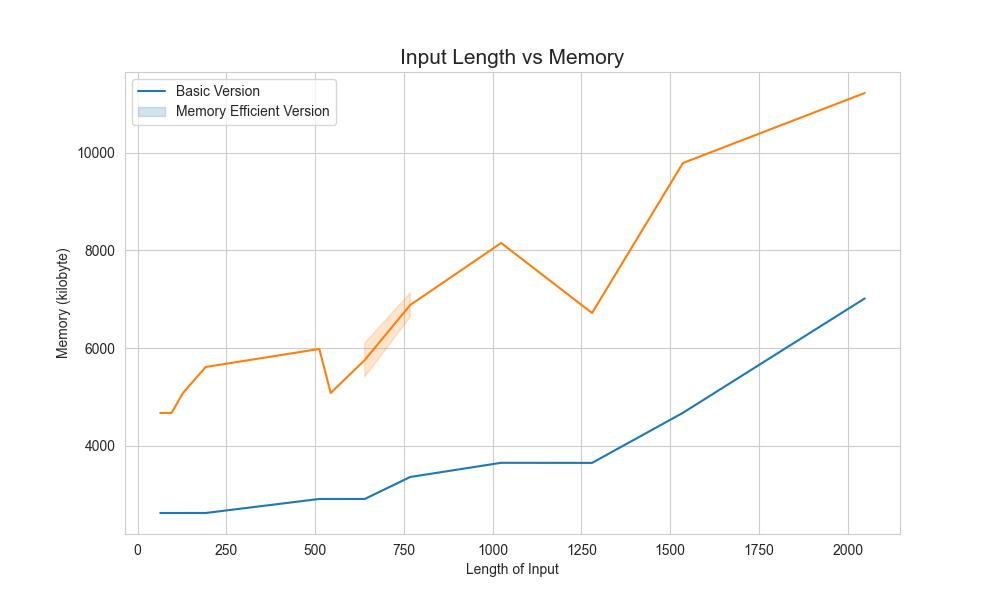
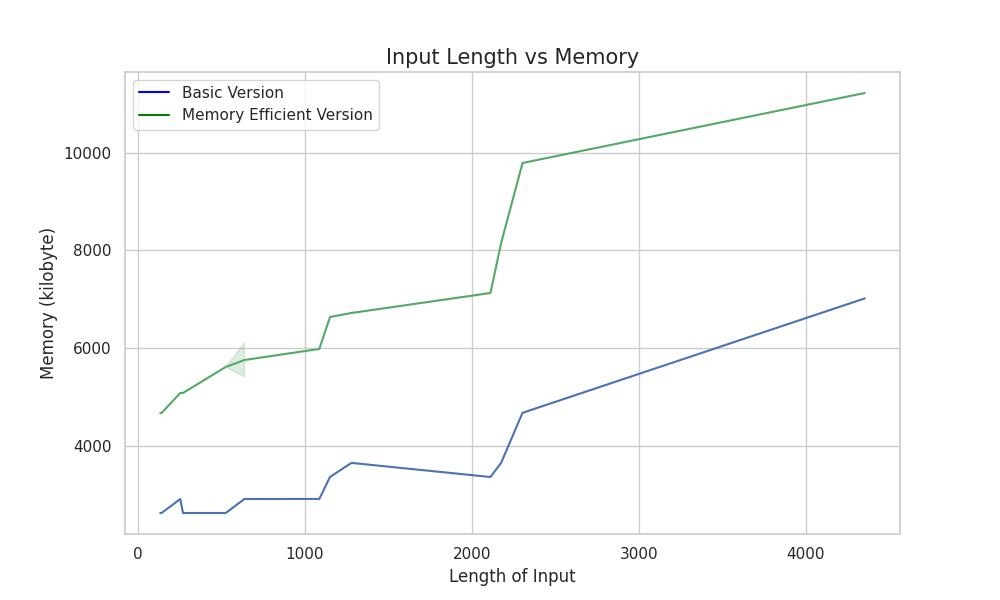
fix plotter

diff --git a/src/main/resources/python/plotter.py b/src/main/resources/python/plotter.py
@@ -2,31 +2,32 @@ import math
 import argparse
 import os
 from os import path
-import numpy as np
 import pandas as pd
 import matplotlib.pyplot as plt
+from matplotlib.lines import Line2D
 import seaborn as sns
+sns.set()
 
 sns.set_style("whitegrid")
 
 def plot(df: pd.DataFrame, output_location: str):
-  line,ax = plt.subplots(figsize=(10,6))
-  ax = sns.lineplot(x='length_of_input', y='time_basic', data=df)
-  ax = sns.lineplot(x='length_of_input', y='time_memory_efficient', data=df)
-  ax.set_title("Input Length vs Time", fontsize=15)
-  ax.set_xlabel ("Length of Input")
-  ax.set_ylabel ("Time (seconds)")
-  plt.legend(labels=["Basic Version","Memory Efficient Version"])
-  line.savefig(f"{output_location}/basic.jpeg")
+  figure = plt.figure(figsize=(10, 6))
+  sns.lineplot(x='length_of_input', y='time_basic', color="b", data=df)
+  sns.lineplot(x='length_of_input', y='time_memory_efficient', color="g", data=df)
+  plt.title("Input Length vs Time", fontsize=15)
+  plt.xlabel ("Length of Input")
+  plt.ylabel ("Time (seconds)")
+  plt.legend(handles=[ Line2D([], [], color="blue", label="Basic Version") ,Line2D([], [], color="green", label="Memory Efficient Version")])
+  plt.savefig(f"{output_location}/time_plot.jpeg")
 
-  line,ax = plt.subplots(figsize=(10,6))
-  ax = sns.lineplot(x='length_of_input', y='memory_basic', data=df)
-  ax = sns.lineplot(x='length_of_input', y='memory_memory_efficient', data=df)
-  ax.set_title("Input Length vs Memory", fontsize=15)
-  ax.set_xlabel ("Length of Input")
-  ax.set_ylabel ("Memory (kilobyte)")
-  plt.legend(labels=["Basic Version","Memory Efficient Version"])
-  line.savefig(f"{output_location}/memory_plot.jpeg")
+  figure = plt.figure(figsize=(10, 6))
+  sns.lineplot(x='length_of_input', y='memory_basic', data=df, color="b")
+  sns.lineplot(x='length_of_input', y='memory_memory_efficient', data=df, color="g")
+  plt.title("Input Length vs Memory", fontsize=15)
+  plt.xlabel ("Length of Input")
+  plt.ylabel ("Memory (kilobyte)")
+  plt.legend(handles=[ Line2D([], [], color="blue", label="Basic Version") ,Line2D([], [], color="green", label="Memory Efficient Version")])
+  plt.savefig(f"{output_location}/memory_plot.jpeg")
 
 
 def main(input_location: str, output_location: str, output_directory: str):
@@ -78,7 +79,7 @@ def main(input_location: str, output_location: str, output_directory: str):
         if index == len(lines_in_basic_file):
           break
 
-      mn_values.append(math.pow(2, lines_for_first_base_string) * length_of_first_base_string + math.pow(2, lines_for_second_base_string) * length_of_second_base_string)
+      mn_values.append(math.pow(2, lines_for_first_base_string) + length_of_first_base_string * math.pow(2, lines_for_second_base_string) * length_of_second_base_string)
     # Completed calculating mn values for all input files
 
   # Create list of time in seconds
